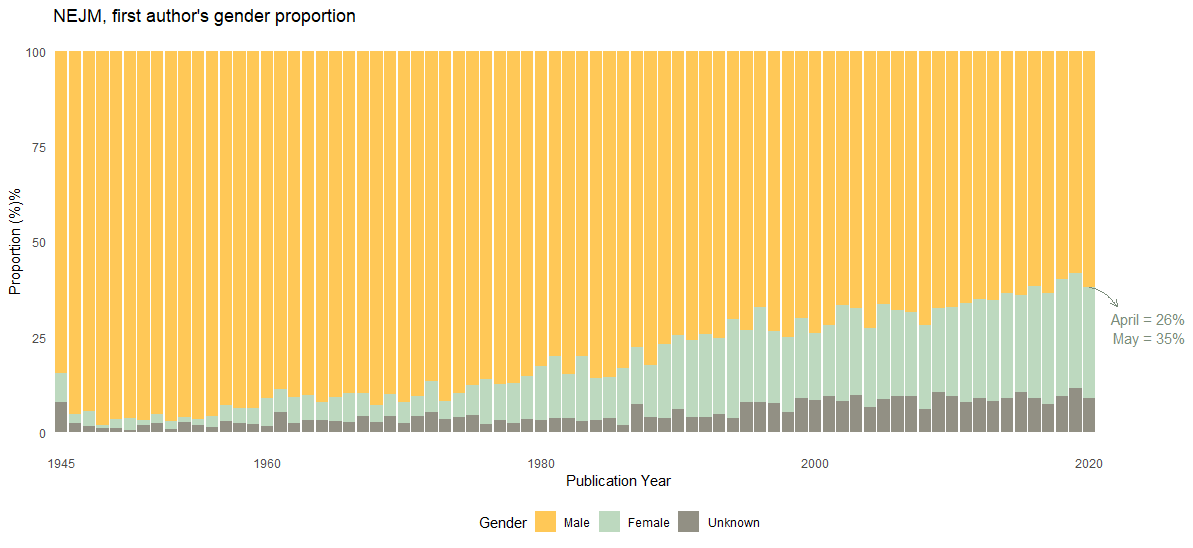
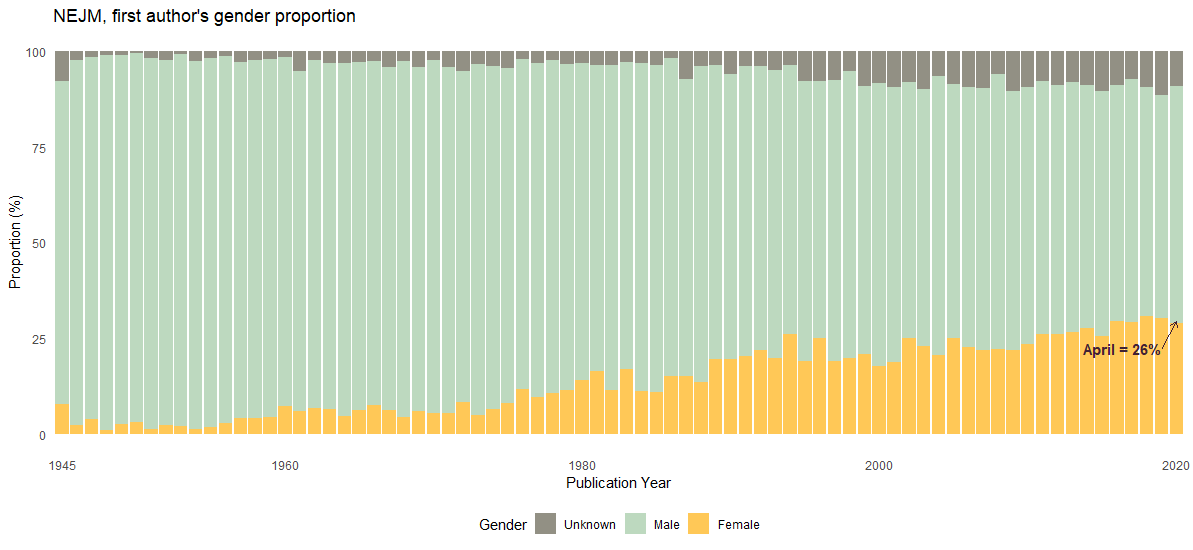
Updating colors and levels

diff --git a/README.md b/README.md
@@ -519,7 +519,7 @@ data_filtered <- data_filtered %>%
   group_by(DOI) %>% 
   mutate(total_authors = last(author_position)) %>% 
   ungroup() %>% 
-  mutate(gender = fct_relevel(gender, c("Male", "Female", "Unknown")))
+  mutate(gender = fct_relevel(gender, c("Unknown", "Male", "Female")))
 ```
 
 ## Gender proportion over time
@@ -534,7 +534,7 @@ count_gender <- data_filtered %>%
 count_gender %>%
   ggplot(aes(`Publication Year`, prop, fill = gender)) +
   geom_col() +
-  scale_fill_manual(values = c("#FFC857", "#BDD9BF", "#929084")) +
+  scale_fill_manual(values = c("#929084", "#BDD9BF", "#FFC857")) +
   theme_minimal() +
   labs(title = "NEJM, author's gender proportion",
      y = "Proportion (%)%",
@@ -560,21 +560,21 @@ count_gender_first <- data_filtered %>%
 count_gender_first %>% 
   ggplot(aes(`Publication Year`, prop, fill = gender)) +
   geom_col() +
-  scale_fill_manual(values = c("#FFC857", "#BDD9BF", "#929084")) +
+  scale_fill_manual(values = c("#929084", "#BDD9BF", "#FFC857")) +
   theme_minimal() +
   labs(
     title = "NEJM, first author's gender proportion",
-    y = "Proportion (%)%",
+    y = "Proportion (%)",
     fill = "Gender") +
     scale_x_discrete(
     breaks=c("1945", "1960", "1980", "2000", "2020")) +
     theme(legend.position = "bottom",
           panel.grid = element_blank()) +
  annotate(
-    geom = "curve", x = 76, y = 38.1, xend = 78, yend = 33, 
-    curvature = -0.2, arrow = arrow(length = unit(2, "mm")), color = "#7A8C7A", size = 0.7) +
-  annotate(geom = "text", x = 83, y = 30, label = "April = 26%", hjust = "right", color = "#7A8C7A", size = 4) +
-  annotate(geom = "text", x = 83, y = 25, label = "May = 35%", hjust = "right", color = "#7A8C7A")
+    geom = "curve", x = 75, y = 22, xend = 76, yend = 29.5, 
+    curvature = 0.0, arrow = arrow(length = unit(2, "mm")), color = "#412234", size = 0.7) +
+  annotate(geom = "text", x = 75, y = 22.5, label = "April = 26%", hjust = "right", color = "#412234", size = 4,
+           fontface="bold") 
 ```
 
 ![](README_files/figure-gfm/unnamed-chunk-8-1.png)<!-- -->
@@ -592,7 +592,7 @@ count_single <- data_filtered %>%
 count_single %>% 
   ggplot(aes(`Publication Year`, prop, fill = gender)) +
   geom_col() +
-  scale_fill_manual(values = c("#FFC857", "#BDD9BF", "#929084")) +
+  scale_fill_manual(values = c("#929084", "#BDD9BF", "#FFC857")) +
   theme_minimal() +
   labs(
     title = "NEJM, Single author's gender proportion",
@@ -621,7 +621,7 @@ count_last<- data_filtered %>%
 count_last %>% 
   ggplot(aes(`Publication Year`, prop, fill = gender)) +
   geom_col() +
-  scale_fill_manual(values = c("#FFC857", "#BDD9BF", "#929084")) +
+  scale_fill_manual(values = c("#929084", "#BDD9BF", "#FFC857")) +
   theme_minimal() +
   labs(
     title = "NEJM, Last author's gender proportion",
